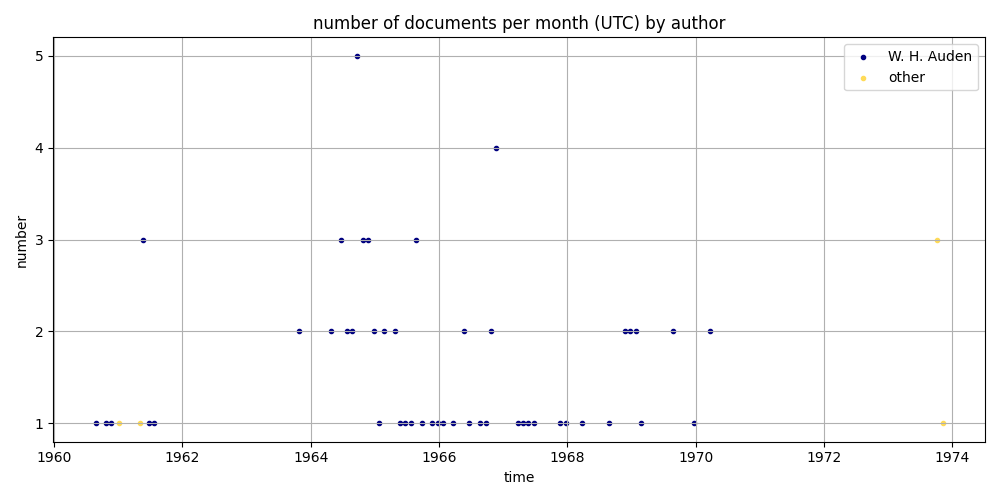
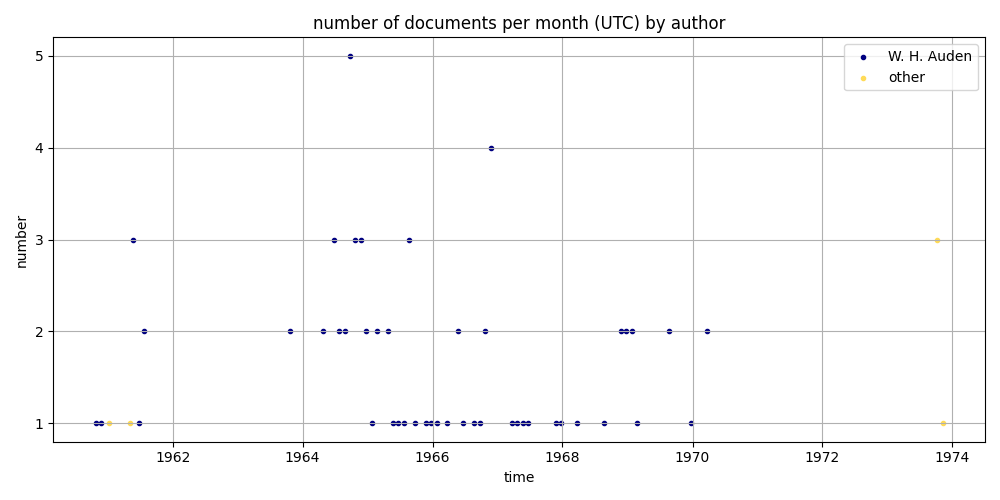
output csv written

diff --git a/metadata/md/metadata-analysis.md b/metadata/md/metadata-analysis.md
@@ -85,7 +85,7 @@ doc
 0027           Auden, W. H.                                                          Autograph Letter Signed W. H. Auden to Hugo Kurka 1964-08-21       Kirchstetten
 0028           Auden, W. H.                                                          Autograph Letter Signed W. H. Auden to Hugo Kurka 1964-11-01             Berlin
 0029           Auden, W. H.                                                          Autograph Letter Signed W. H. Auden to Hugo Kurka 1964-07-12       Kirchstetten
-0030           Auden, W. H.                                              Autograph Letter Signed W. H. Auden to Hugo Kurka 1960-08-29--1968-07-29       Kirchstetten
+0030           Auden, W. H.                                              Autograph Letter Signed W. H. Auden to Hugo Kurka 1961-07-29--1968-07-29       Kirchstetten
 0031           Auden, W. H.                                                          Autograph Letter Signed W. H. Auden to Hugo Kurka 1965-09-23       Kirchstetten
 0032           Auden, W. H.                                                          Autograph Letter Signed W. H. Auden to Hugo Kurka 1964-08-18       Kirchstetten
 0033           Auden, W. H.                                                          Autograph Letter Signed W. H. Auden to Hugo Kurka 1966-01-27      New York City
